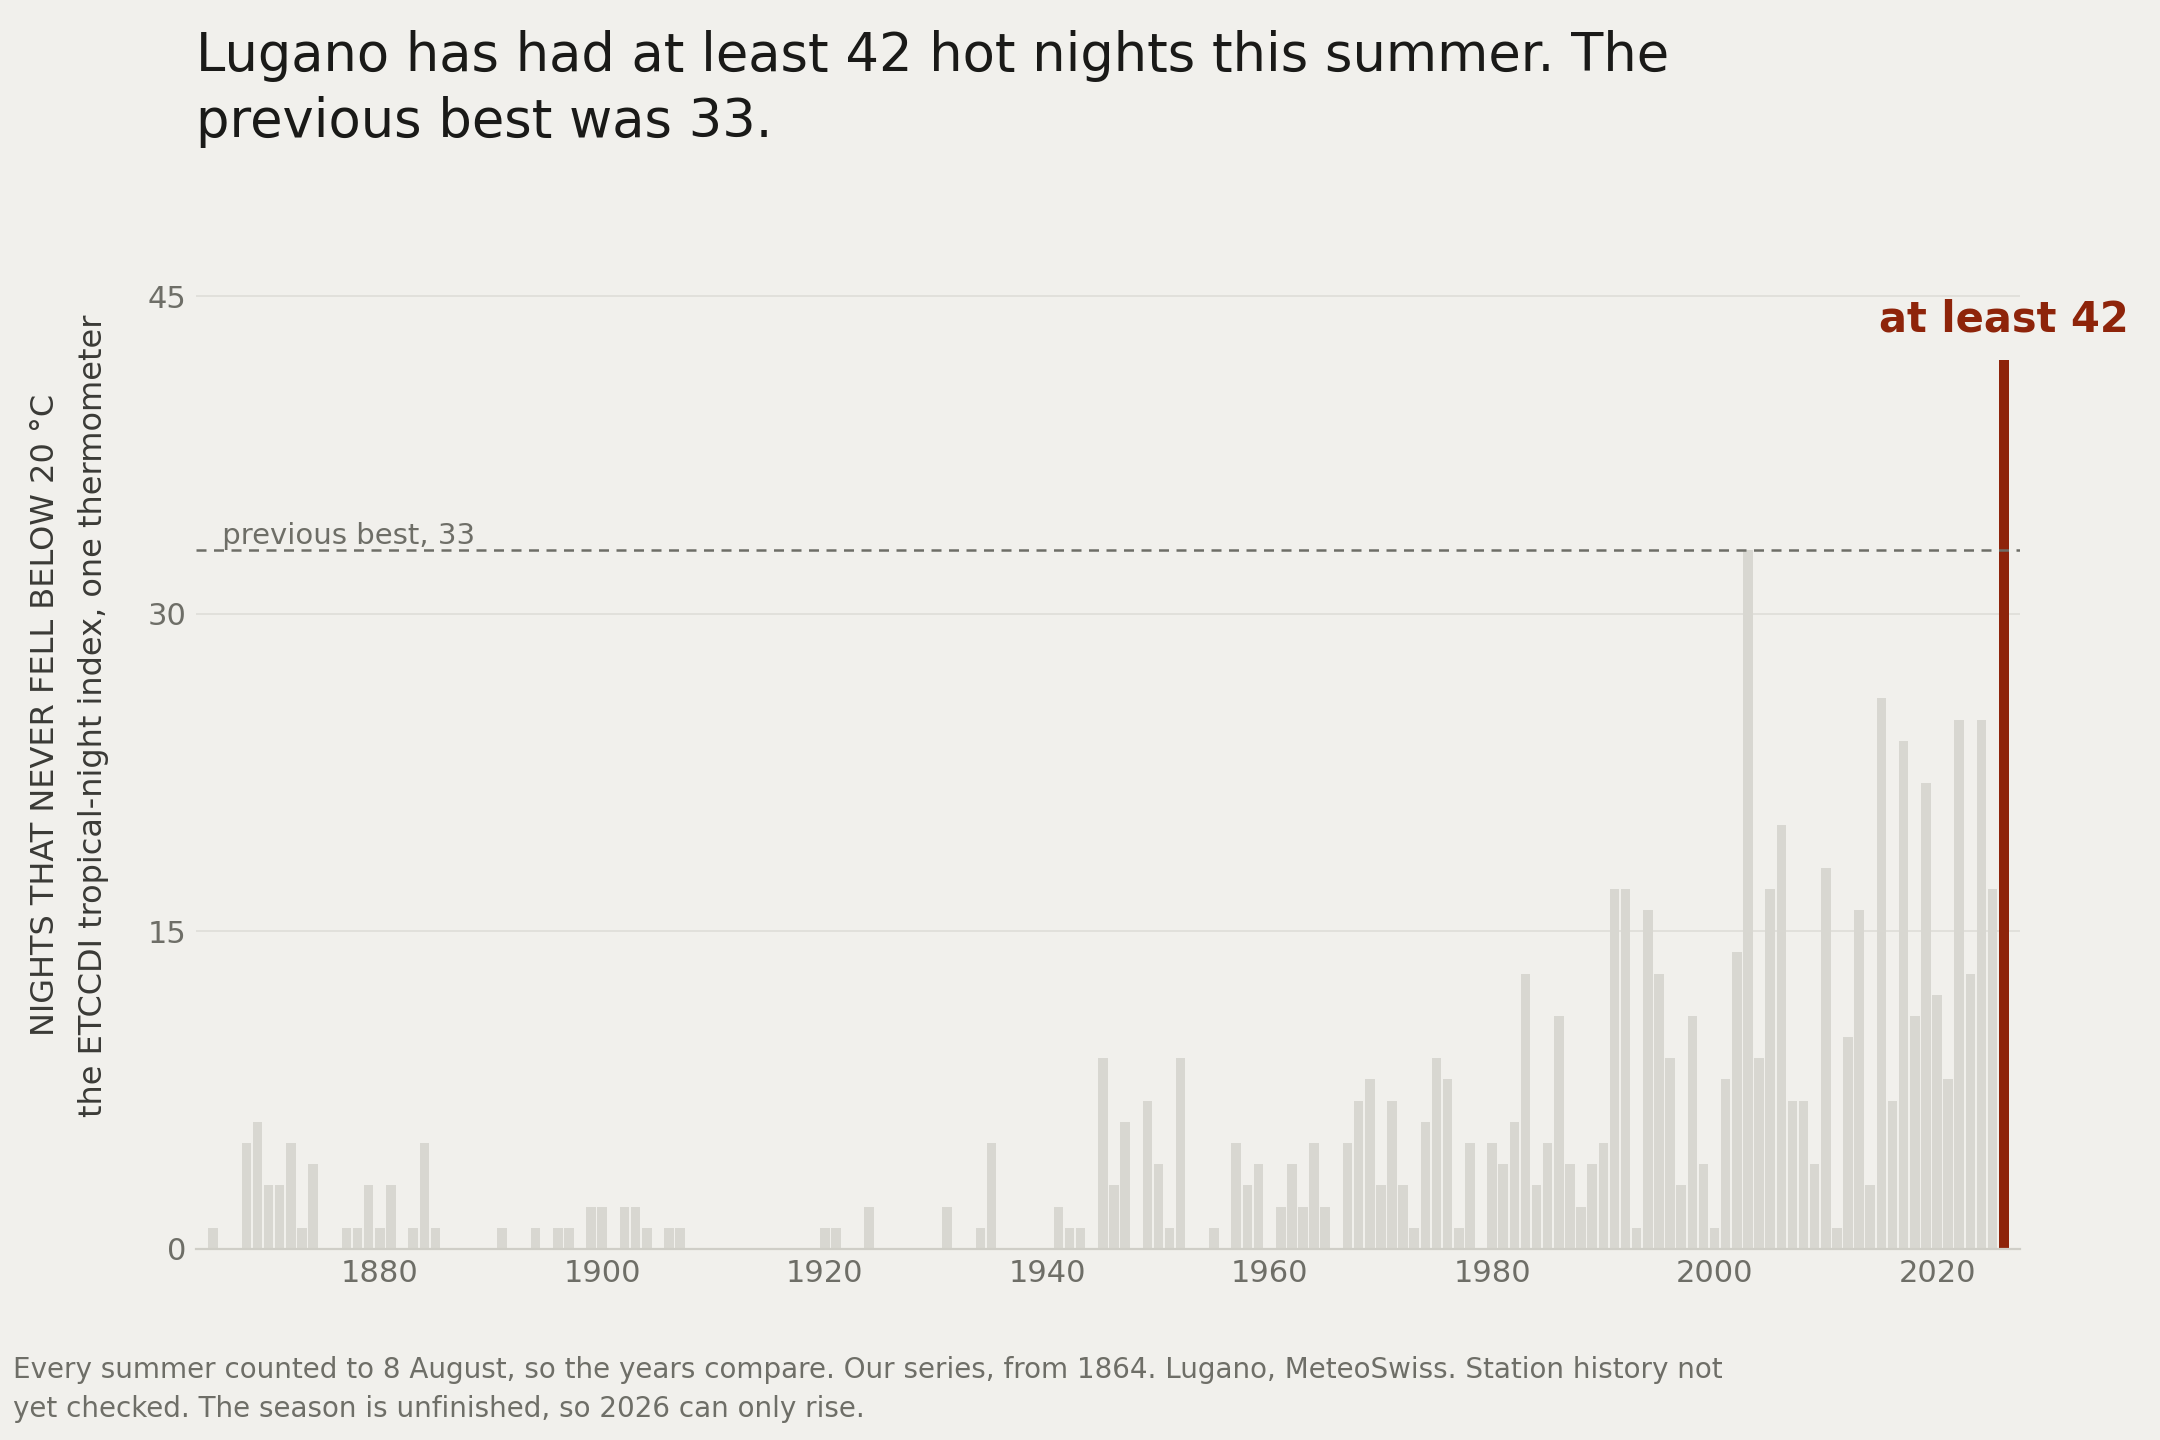
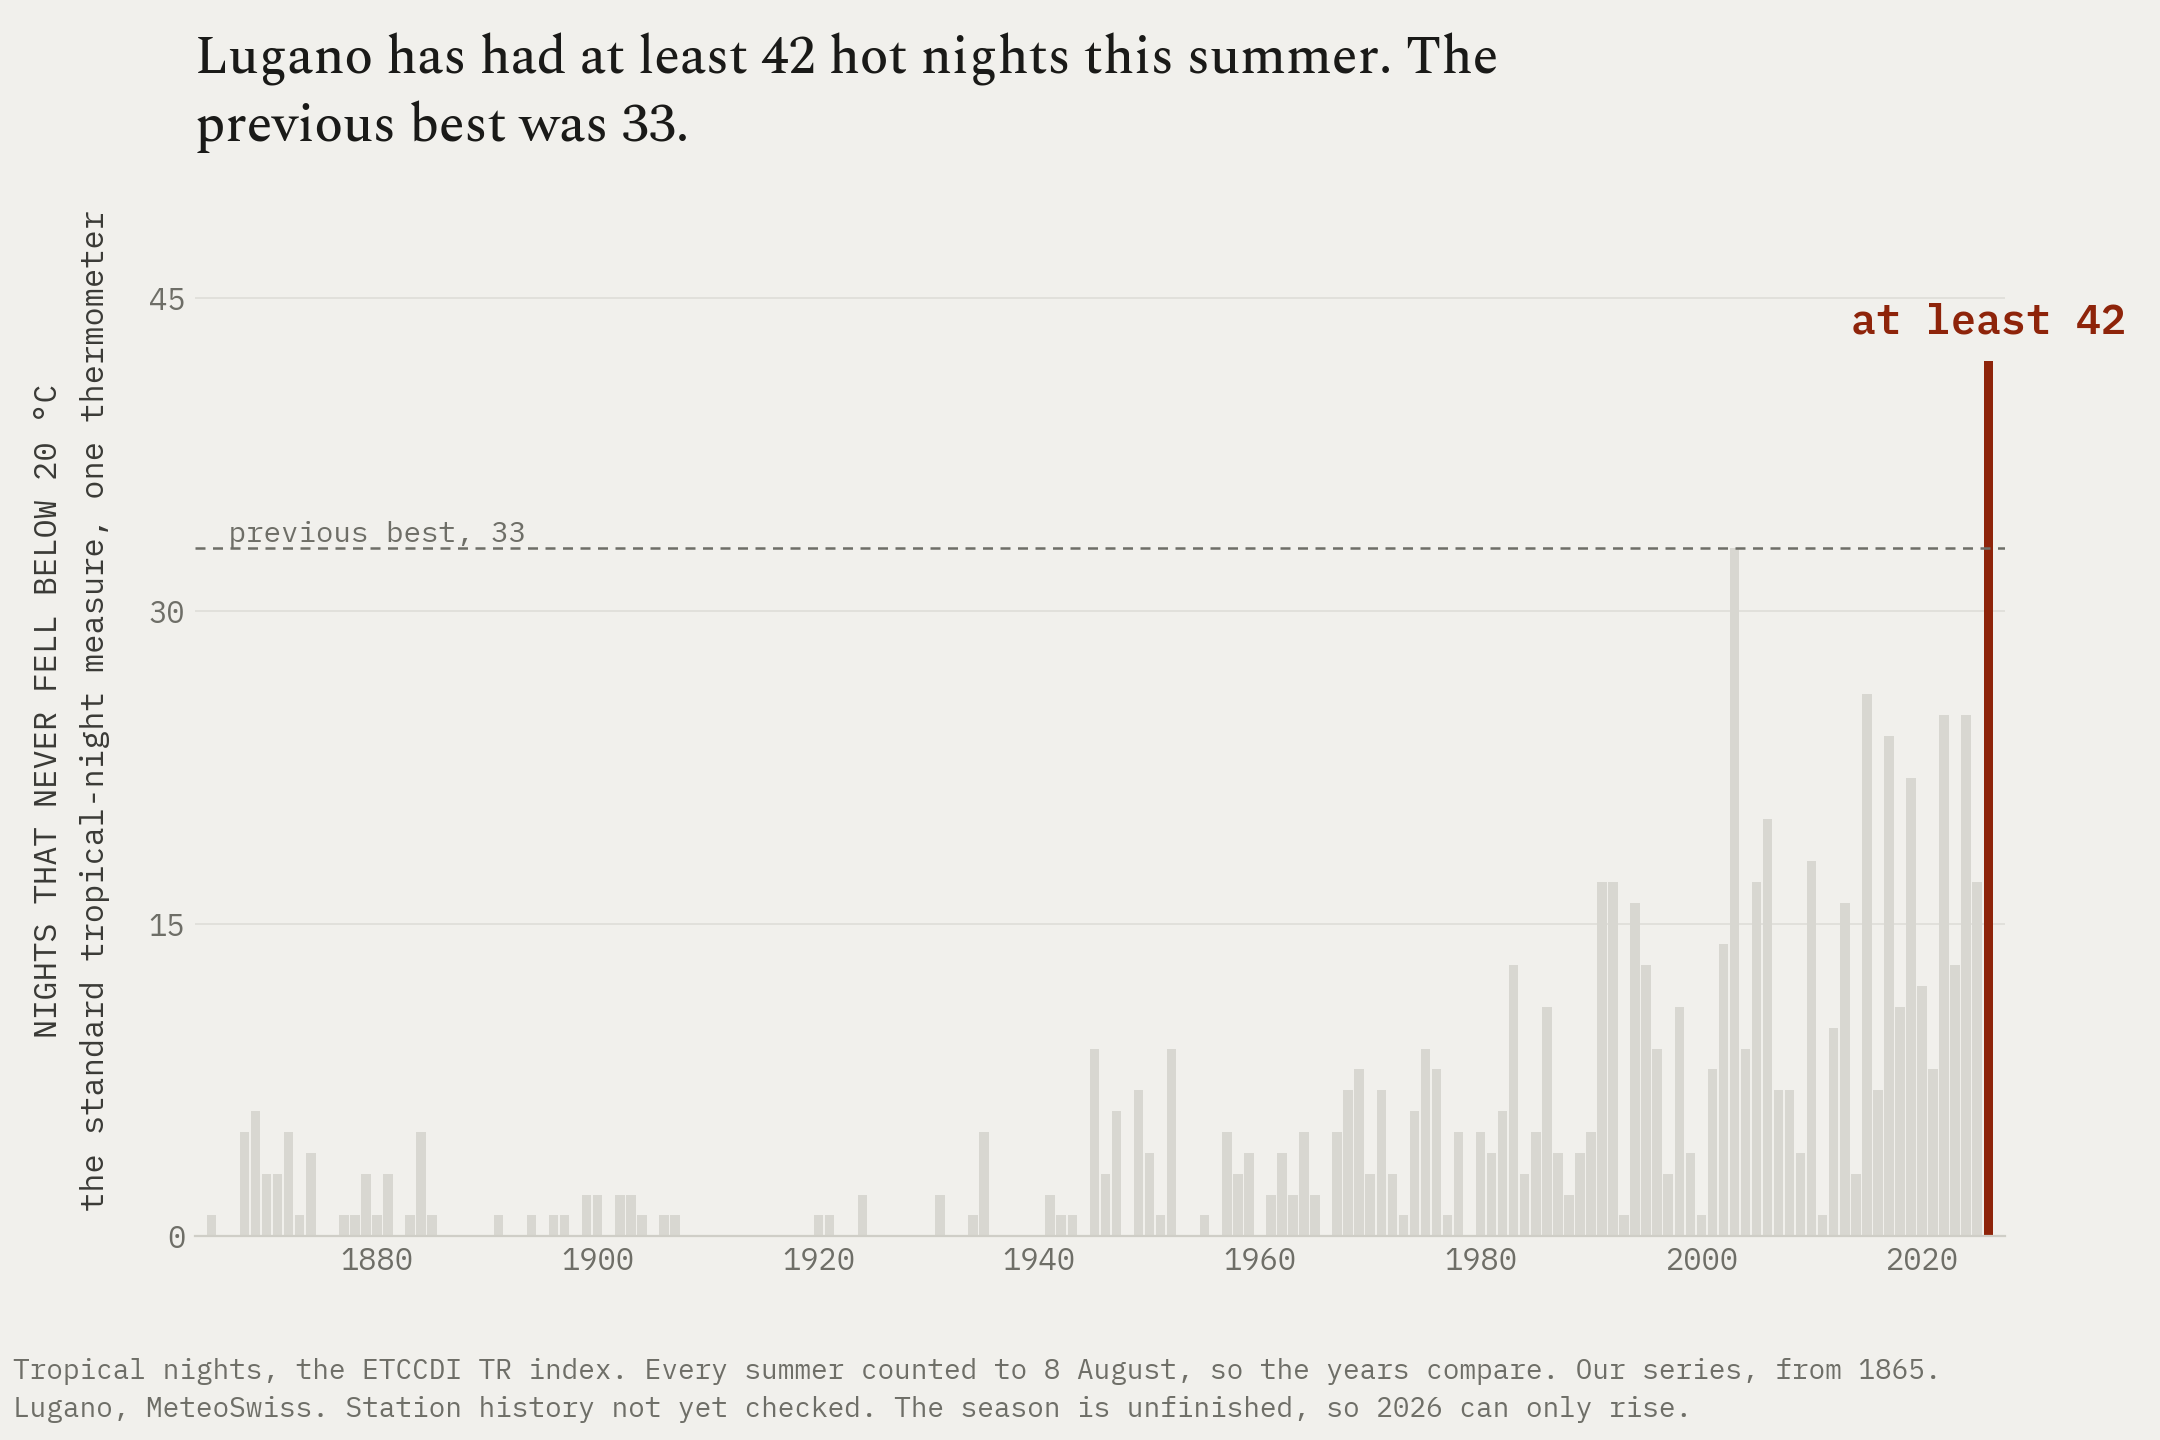
notes: the charts carry the house faces
VD's first Notes review, item 02, and the most consequential of the set.
Both charts rendered in matplotlib's default sans while every page
around them is Spectral and Plex Mono, so the two most quotable objects
on the site, the images that get screenshotted WITHOUT the page, were
the only things on it carrying none of its typography.

Both families ship static TTF for exactly this, so they register without
instancing a variable font, and the tokens already existed. This was a
gap rather than a decision.

The split is VD's and it is the right cut. Every tick and every count is
a figure, so the data face is the default and Plex Mono's monospaced
digits give tabular figures for free: a column of years that changes
width as the digits change is the one thing a chart must not do. Only
the title is prose, and it takes Spectral at the point of use.

All four charts rebuilt.

diff --git a/design/make_note_chart.py b/design/make_note_chart.py
@@ -37,7 +37,32 @@ from pathlib import Path
 import matplotlib
 matplotlib.use("Agg")
 import matplotlib.pyplot as plt          # noqa: E402
+from matplotlib import font_manager      # noqa: E402
 from matplotlib.ticker import MaxNLocator  # noqa: E402
+
+# THE HOUSE FACES, REGISTERED. VD: the two most quotable objects on the
+# site, the images that get screenshotted WITHOUT the page, were the only
+# things on it carrying none of its typography. Everything here rendered in
+# matplotlib's default sans while every page around it is Spectral and Plex
+# Mono.
+#
+# Both families ship static TTF for exactly this, so they register without
+# instancing a variable font. Registration only; which face each element
+# takes is decided at the point of use below.
+_FONT_DIR = Path(__file__).resolve().parent.parent / "assets/fonts"
+for _ttf in sorted(_FONT_DIR.rglob("*.ttf")):
+    font_manager.fontManager.addfont(str(_ttf))
+
+# EVERY TICK AND EVERY COUNT IS A FIGURE, so the default face is the data
+# face with tabular numerals: a column of years or counts that changes width
+# as the digits change is the one thing a chart must not do. Only the title
+# is prose, and it takes Spectral at the point of use.
+plt.rcParams.update({
+    "font.family": "IBM Plex Mono",
+    "font.size": 11,
+    "mathtext.default": "regular",
+})
+PROSE = {"family": "Spectral"}
 
 import hashlib
 
@@ -263,7 +288,7 @@ def draw(city, metric, reference=None):
                 f"The previous best was {prev}.")
     ax.set_title("\n".join(textwrap.wrap(head, 58)),
         fontsize=19, color=INK, loc="left", pad=16, weight="medium",
-        linespacing=1.35)
+        linespacing=1.35, **PROSE)
 
     # Everything a page would have carried elsewhere, on the image.
     foot = []
